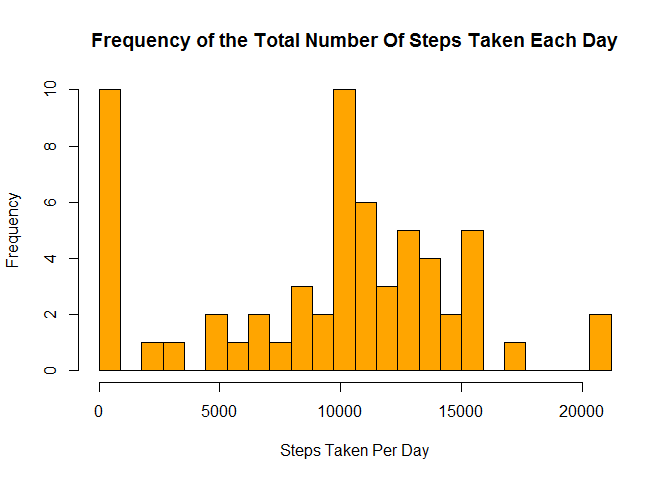
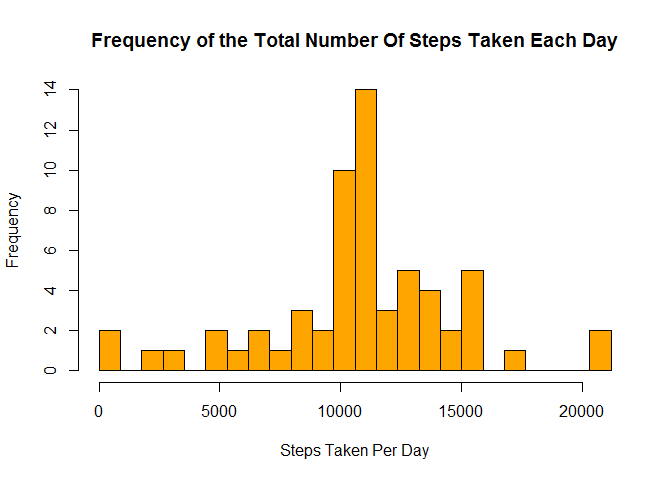
Added files via upload

diff --git a/PA1_template.html b/PA1_template.html
@@ -200,21 +200,15 @@ cat('The original dataset contains', dirty_rows, 'rows with missing values or', 
 <div id="devise-a-strategy-for-filling-in-all-of-the-missing-values-in-the-dataset." class="section level4">
 <h4>Devise a strategy for filling in all of the missing values in the dataset.</h4>
 </div>
-<div id="the-strategy-does-not-need-to-be-sophisticated.-for-example-you-could-use-the-meanmedian-for-that-day" class="section level4">
-<h4>The strategy does not need to be sophisticated. For example, you could use the mean/median for that day,</h4>
-</div>
-<div id="or-the-mean-for-that-5-minute-interval-etc." class="section level4">
-<h4>or the mean for that 5-minute interval, etc.</h4>
-</div>
-<div id="create-a-new-dataset-that-is-equal-to-the-original-dataset-but-with-the-missing-data-filled-in." class="section level4">
-<h4>Create a new dataset that is equal to the original dataset but with the missing data filled in.</h4>
+<div id="setting-the-missing-values-to-the-average-steps-for-that-interval" class="section level4">
+<h4>Setting the missing values to the average steps for that interval</h4>
 <pre class="r"><code>corrected &lt;- sd
 
 for(i in 1:nrow(corrected)) {
   row &lt;- corrected[i,]
   
   if (is.na(row$steps)) {
-    row$steps &lt;- steps_by_period[steps_by_period$Interval == 2330,]$`Average Steps`
+    row$steps &lt;- steps_by_period[steps_by_period$Interval == row$interval,]$`Average Steps`
     corrected[i,] &lt;- row
   }
 }</code></pre>
@@ -234,34 +228,34 @@ hist(c_steps$`Steps Taken Count`,
      main='Frequency of the Total Number Of Steps Taken Each Day',
      col='orange'
 )</code></pre>
[2 lines of base64/hex data omitted]
 </div>
 <div id="calculate-and-report-the-mean-and-median-total-number-of-steps-taken-per-day" class="section level4">
 <h4>Calculate and report the mean and median total number of steps taken per day</h4>
 <pre class="r"><code>c_steps_mean &lt;- mean(c_steps$`Steps Taken Count`)
 cat('Average steps per day:', c_steps_mean, '\n')</code></pre>
-<pre><code>## Average steps per day: 9452.575</code></pre>
+<pre><code>## Average steps per day: 10766.19</code></pre>
 <pre class="r"><code>c_steps_median &lt;- median(c_steps$`Steps Taken Count`)
 cat('Median steps per day:', c_steps_median, '\n')</code></pre>
-<pre><code>## Median steps per day: 10395</code></pre>
+<pre><code>## Median steps per day: 10766.19</code></pre>
 </div>
 <div id="do-these-values-differ-from-the-estimates-from-the-first-part-of-the-assignment" class="section level4">
 <h4>Do these values differ from the estimates from the first part of the assignment?</h4>
 <pre class="r"><code>cat('Missing Values Removed Mean Steps:', steps_mean)</code></pre>
 <pre><code>## Missing Values Removed Mean Steps: 10766.19</code></pre>
 <pre class="r"><code>cat('Corrected Data Mean Steps:', c_steps_mean)</code></pre>
-<pre><code>## Corrected Data Mean Steps: 9452.575</code></pre>
+<pre><code>## Corrected Data Mean Steps: 10766.19</code></pre>
 <pre class="r"><code>cat('Missing Values Removed Median Steps:', steps_median)</code></pre>
 <pre><code>## Missing Values Removed Median Steps: 10765</code></pre>
 <pre class="r"><code>cat('Corrected Data Median Steps:', c_steps_median)</code></pre>
-<pre><code>## Corrected Data Median Steps: 10395</code></pre>
+<pre><code>## Corrected Data Median Steps: 10766.19</code></pre>
 </div>
 <div id="what-is-the-impact-of-imputing-missing-data-on-the-estimates-of-the-total-daily-number-of-steps" class="section level4">
 <h4>What is the impact of imputing missing data on the estimates of the total daily number of steps?</h4>
 <pre class="r"><code>cat('By inferring missing values, the mean decreased by', steps_mean - c_steps_mean, 'steps')</code></pre>
-<pre><code>## By inferring missing values, the mean decreased by 1313.613 steps</code></pre>
+<pre><code>## By inferring missing values, the mean decreased by 0 steps</code></pre>
 <pre class="r"><code>cat('By inferring missing values, the median decreased by', steps_median - c_steps_median, 'steps')</code></pre>
-<pre><code>## By inferring missing values, the median decreased by 370 steps</code></pre>
+<pre><code>## By inferring missing values, the median decreased by -1.188679 steps</code></pre>
 </div>
 </div>
 <div id="step-5-are-there-differences-in-activity-patterns-between-weekdays-and-weekends" class="section level3">
@@ -326,7 +320,7 @@ plot(steps_weekday$Interval,
      main='Average Steps By Time Interval on Weekdays',
      col='blue'
 )</code></pre>
[2 lines of base64/hex data omitted]
 </div>
 </div>
 

diff --git a/PA1_template.md b/PA1_template.md
@@ -110,10 +110,7 @@ cat('The original dataset contains', dirty_rows, 'rows with missing values or', 
 ```
 
 #### Devise a strategy for filling in all of the missing values in the dataset. 
-#### The strategy does not need to be sophisticated. For example, you could use the mean/median for that day, 
-#### or the mean for that 5-minute interval, etc.
-#### Create a new dataset that is equal to the original dataset but with the missing data filled in.
-
+#### Setting the missing values to the average steps for that interval
 
 ```r
 corrected <- sd
@@ -122,7 +119,7 @@ for(i in 1:nrow(corrected)) {
   row <- corrected[i,]
   
   if (is.na(row$steps)) {
-    row$steps <- steps_by_period[steps_by_period$Interval == 2330,]$`Average Steps`
+    row$steps <- steps_by_period[steps_by_period$Interval == row$interval,]$`Average Steps`
     corrected[i,] <- row
   }
 }
@@ -158,7 +155,7 @@ cat('Average steps per day:', c_steps_mean, '\n')
 ```
 
 ```
-## Average steps per day: 9452.575
+## Average steps per day: 10766.19
 ```
 
 ```r
@@ -167,7 +164,7 @@ cat('Median steps per day:', c_steps_median, '\n')
 ```
 
 ```
-## Median steps per day: 10395
+## Median steps per day: 10766.19
 ```
 
 #### Do these values differ from the estimates from the first part of the assignment?
@@ -185,7 +182,7 @@ cat('Corrected Data Mean Steps:', c_steps_mean)
 ```
 
 ```
-## Corrected Data Mean Steps: 9452.575
+## Corrected Data Mean Steps: 10766.19
 ```
 
 ```r
@@ -201,7 +198,7 @@ cat('Corrected Data Median Steps:', c_steps_median)
 ```
 
 ```
-## Corrected Data Median Steps: 10395
+## Corrected Data Median Steps: 10766.19
 ```
 
 #### What is the impact of imputing missing data on the estimates of the total daily number of steps?
@@ -211,7 +208,7 @@ cat('By inferring missing values, the mean decreased by', steps_mean - c_steps_m
 ```
 
 ```
-## By inferring missing values, the mean decreased by 1313.613 steps
+## By inferring missing values, the mean decreased by 0 steps
 ```
 
 ```r
@@ -219,7 +216,7 @@ cat('By inferring missing values, the median decreased by', steps_median - c_ste
 ```
 
 ```
-## By inferring missing values, the median decreased by 370 steps
+## By inferring missing values, the median decreased by -1.188679 steps
 ```
 
 ### Step 5: Are there differences in activity patterns between weekdays and weekends?
